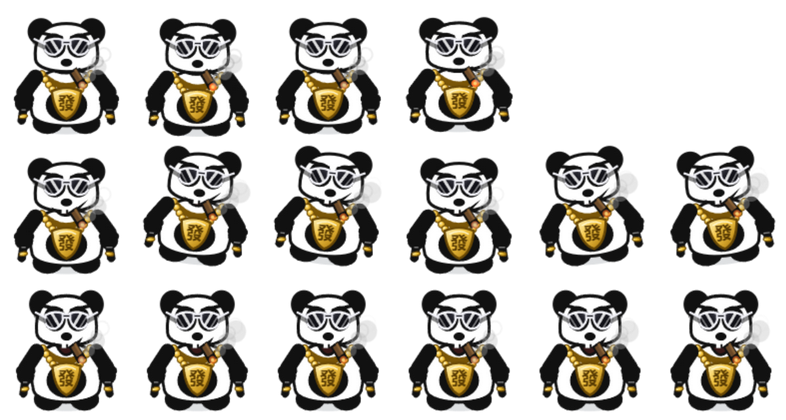
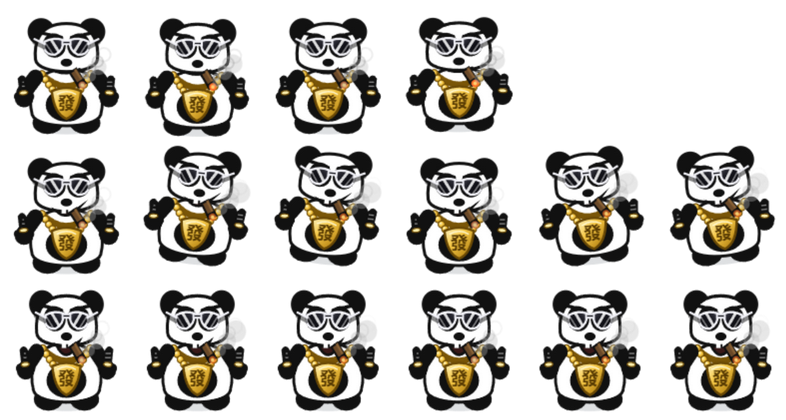
熊猫人：中指改成朝上
手臂垂着没问题，是手的方向搞反了 —— 比中指应该是中指从拳头顶端
竖起来朝上（手背朝外），不是朝下指着地。

- 中指由 hy+22 翻到 hy-24，向上伸
- 指节纹路跟着翻到指身上
- 蜷起的手指凸起挪到拳头中下部
- 金戒指改套在中指根部
- 手整体上提 6 单位，给朝上的中指留空间

diff --git a/build/make-skins.js b/build/make-skins.js
@@ -495,7 +495,7 @@ function drawPanda(ctx, q, p, kind) {
   [-1, 1].forEach(function (sg) {
     const shX = sg * 38, shY = -4;
     const elX = sg * 52, elY = 14 + rise * 0.3;
-    const hx = sg * 52, hy = 30 - rise;
+    const hx = sg * 52, hy = 24 - rise;
     ctx.lineCap = 'round'; ctx.lineJoin = 'round';
     [[shX, shY, elX, elY, 16], [elX, elY, hx, hy, 14]].forEach(function (a) {
       ctx.strokeStyle = LINE; ctx.lineWidth = a[4] + 3;
@@ -507,26 +507,27 @@ function drawPanda(ctx, q, p, kind) {
     ctx.beginPath(); ctx.ellipse(hx, hy, 10, 9.5, 0, 0, TAU);
     ctx.fillStyle = '#111111'; ctx.fill();
     ctx.lineWidth = 2.8; ctx.strokeStyle = LINE; ctx.stroke();
-    [[-7, -5.5], [7, -5.5]].forEach(function (k) {
+    [[-7, -2.5], [7, -2.5]].forEach(function (k) {
       ctx.beginPath(); ctx.arc(hx + k[0], hy + k[1], 4.4, 0, TAU);
       ctx.fillStyle = '#111111'; ctx.fill();
       ctx.lineWidth = 2.2; ctx.strokeStyle = LINE; ctx.stroke();
     });
-    /* 中指：朝下且加长，比之前更醒目 */
-    const fx = hx + sg * 3;
+    /* 中指：从拳头顶端竖起来朝上（手背朝外的那种比法） */
+    const fx = hx + sg * 2.5;
     ctx.beginPath();
-    ctx.moveTo(hx - 3.8, hy + 2);
-    ctx.lineTo(fx - 3.8, hy + 22);
-    ctx.quadraticCurveTo(fx, hy + 28, fx + 3.8, hy + 22);
-    ctx.lineTo(hx + 3.8, hy + 2);
+    ctx.moveTo(hx - 3.8, hy - 3);
+    ctx.lineTo(fx - 3.8, hy - 24);
+    ctx.quadraticCurveTo(fx, hy - 30, fx + 3.8, hy - 24);
+    ctx.lineTo(hx + 3.8, hy - 3);
     ctx.closePath();
     ctx.fillStyle = '#111111'; ctx.fill();
     ctx.lineWidth = 2.8; ctx.strokeStyle = LINE; ctx.stroke();
     ctx.strokeStyle = 'rgba(255,255,255,.5)'; ctx.lineWidth = 1.6;
-    ctx.beginPath(); ctx.moveTo(hx - 2.4, hy + 8); ctx.lineTo(hx + 2.4 + sg * 1.2, hy + 8); ctx.stroke();
-    ctx.beginPath(); ctx.moveTo(hx - 1.6, hy + 14); ctx.lineTo(hx + 1.8 + sg * 2, hy + 14); ctx.stroke();
-    /* 金戒指 */
-    ctx.beginPath(); ctx.ellipse(hx + sg * 1, hy + 16, 5.2, 2.6, sg * 0.15, 0, TAU);
+    ctx.beginPath(); ctx.moveTo(hx - 2.4, hy - 9); ctx.lineTo(hx + 2.4 + sg * 1.2, hy - 9); ctx.stroke();
+    ctx.beginPath(); ctx.moveTo(hx - 1.8, hy - 15); ctx.lineTo(hx + 1.8 + sg * 1.8, hy - 15); ctx.stroke();
+    ctx.beginPath(); ctx.moveTo(hx - 1.2, hy - 20); ctx.lineTo(hx + 1.2 + sg * 2.2, hy - 20); ctx.stroke();
+    /* 金戒指：套在中指根部 */
+    ctx.beginPath(); ctx.ellipse(hx + sg * 0.6, hy - 7, 5.2, 2.6, sg * 0.15, 0, TAU);
     const rg = ctx.createLinearGradient(hx - 5, hy + 14, hx + 5, hy + 19);
     rg.addColorStop(0, '#FFF2B0'); rg.addColorStop(0.5, '#F0C43A'); rg.addColorStop(1, '#A87508');
     ctx.fillStyle = rg; ctx.fill();
